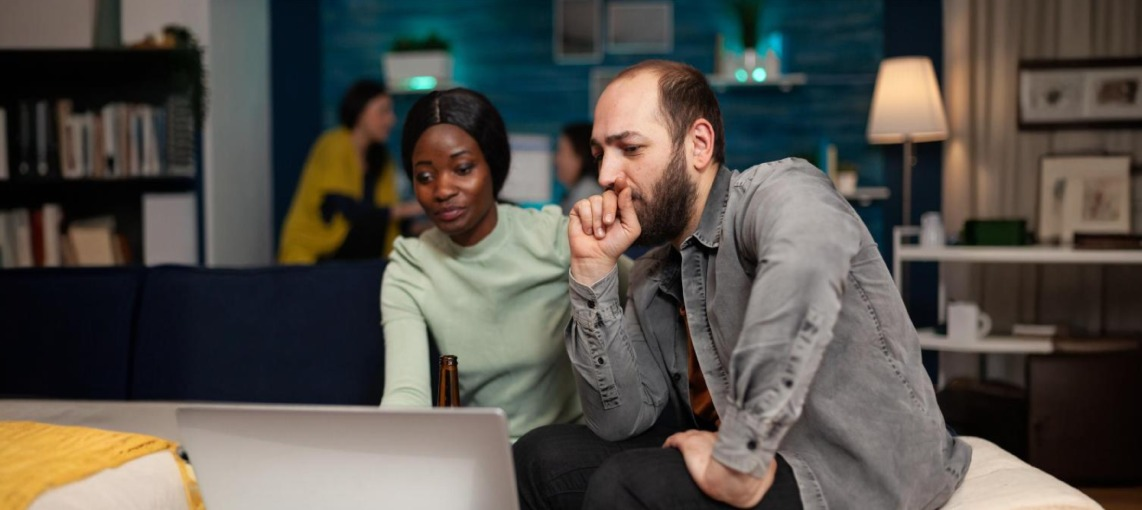
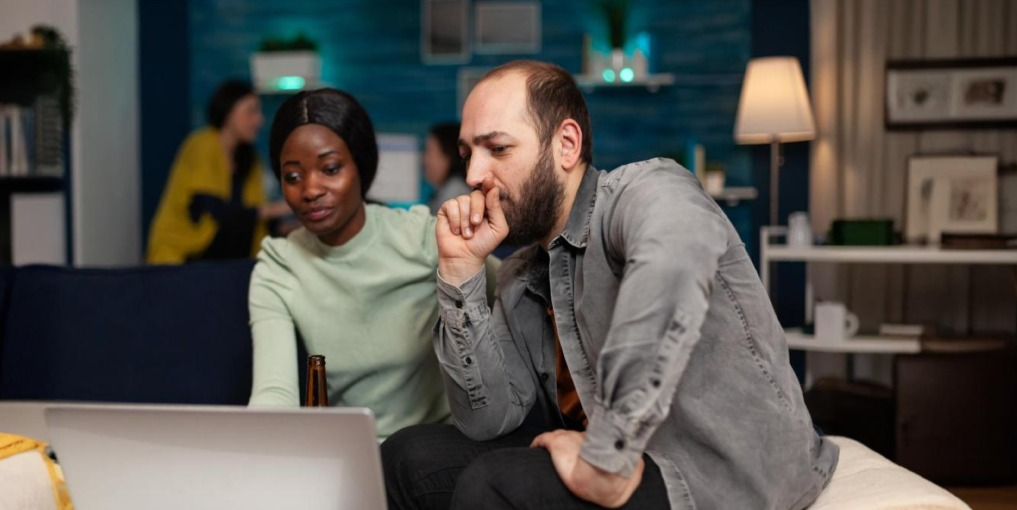
image update

diff --git a/src/ClientSide/ContactUs/ContactForm/ContactForm.jsx b/src/ClientSide/ContactUs/ContactForm/ContactForm.jsx
@@ -32,7 +32,7 @@ const ContactForm = () => {
   return (
     <div className="sectionGap">
       <div className="lg:grid grid-cols-2 gap-x-[100px]   mx-0 justify-between items-center text-white">
-        <div className=" lg:h-[530px] h-[356px] w-full">
+        <div className=" h-[530px]  w-full">
           <img
             className="w-full h-full"
             // src="https://i.ibb.co.com/3sCWhbG/image-10-66f21ff3dce94.webp"
